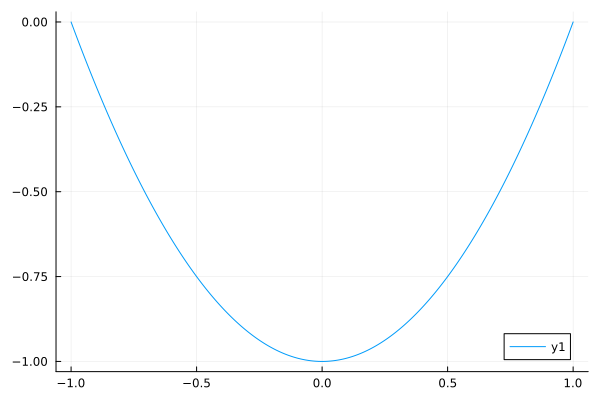
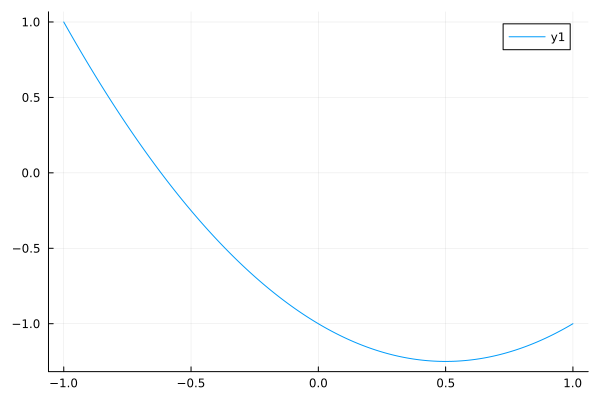
derive continuous Koopman theory formulation and test analytic integration method

diff --git a/polynomial_projections/notes.md b/polynomial_projections/notes.md
@@ -1,12 +1,10 @@
-For the following example, we will consider the one dimensional dynamic system defined by
+Consider the one dimensional dynamic system defined by
 
-$$\frac{dx}{dt} = x^2 - 1$$
+$$\frac{dx}{dt} = x^2 - x - 1$$
 
 The function is plotted below
 
-![System Dynamics](/Users/atagg/Documents/research/NeuralKoopmanTheory/examples/small_quadratic/system_dynamics.png)
-
-For $x < 1$ this system will converge to the stable equilibrium $x=-1$
+![System Dynamics](/Users/atagg/Documents/research/NeuralKoopmanTheory/polynomial_projections/figures/system_dynamics.png)
 
 The goal of this example will be to approximate a lifted space $\mathbf{z} = \boldsymbol{\phi}(x)$ where the dynamics are now linear instead of quadratic.  We need to find a Koopman operator $K$ such that $\mathbf{z}_{k+1} = K\mathbf{z}_k$.
 
@@ -20,21 +18,62 @@ The Koopman operator $K$ can be interpreted as a projection of $\boldsymbol{\phi
 
 $$K_{ij} = \frac{\lang \phi_i(F(x)), \phi_j(x) \rang}{\lang \phi_j(x), \phi_j(x)\rang}$$
 
-For this example, we will use Legendre polynomials for our lifting functions.  The projection coefficients are computed as follows
+We will use Legendre polynomials for our lifting functions.  The projection coefficients are computed as follows
 
 $$K_{ij} = \frac{2j+1}{2} \int_{-1}^1 P_i(F(x)) P_j(x) dx $$
 
 In our example, $F(x) = x + (x^2 - 1)\Delta t$
 
-for the first few entries in the Koopman Operator,
+Computing these projections for a $2 \times 2$ approximation of the Koopman operator,
 
-$$K_{00} = \frac{1}{2} \int_{-1}^1 dx = 1$$
-$$K_{01} = \frac{1}{2} \int_{-1}^1 x dx = 0$$
-$$K_{02} = \frac{1}{4} \int_{-1}^1 (3x^2 - 1) dx = 0$$
-$$K_{10} = \frac{3}{2} \int_{-1}^1 (x + (x^2 - 1)\Delta t) dx = -2 \Delta t$$
-$$K_{11} = \frac{3}{2} \int_{-1}^1 (x + (x^2 - 1)\Delta t)x dx = 1$$
-$$K_{12} = \frac{3}{4} \int_{-1}^1 (x + (x^2 - 1)\Delta t)(3x^2 - 1) dx = \frac{2}{5} \Delta t$$
+$$K_{2 \times 2} = \begin{bmatrix} 1 & 0 \\ -0.00666 & 1 \end{bmatrix}$$
 
+Simulating with this Koopman operator and comparing it to the true lifted trajectories
+
+![System Dynamics](/Users/atagg/Documents/research/NeuralKoopmanTheory/polynomial_projections/figures/lifted_trajectories_2x2.png)
+
+We can improve upon this by taking a $5 \times 5$ approximation of the Koopman operator 
+
+
+![System Dynamics](/Users/atagg/Documents/research/NeuralKoopmanTheory/polynomial_projections/figures/lifted_trajectories_5x5.png)
+
+
+If we go to a $15 \times 15$ Koopman operator, the simiulation is getting better.  We see that the low order polynomials are captured very well, while the high order states are still seeing some error 
+
+![System Dynamics](/Users/atagg/Documents/research/NeuralKoopmanTheory/polynomial_projections/figures/lifted_trajectories_15x15.png)
+
+
+This trend continues as we go to higher and higher order polynomials.  The lifted dynamics will never be exactly captured by a finite Koopman operator, and it seems that the error is always shifted to the highest order polynomials.  
+
+This makes sense because we are essentially trying to approximate $P_{15}(x + (x^2 - 1)\Delta t)$ , which is an order $30$ polynomial, with linear combinations of $P_{15}$ or below.  
+
+This the error can be quantified by the following metric
+
+$$E_i = \frac{||\sum_{j=0}^N K_{ij} \phi_j(x)||^2}{||\phi_i(F(x))||^2}$$
+
+This is the energy captured by the approximation divided by the total energy of the lifted dynamic equation.  This ratio of energies tells us how well the dynamics are captured by the Koopman operator 
+
+If the basis is orthonormal, then this ratio actually simplifies to 
+
+$$E_i = \frac{\sum_{j=0}^N K_{ij}^2}{||\phi_i(F(x))||^2}$$
+
+For the $5 \times 5$ case, the computed energy ratios are
+
+$$\begin{matrix} 
+E_1 = 1.0000002009737752 \\
+E_2 = 1.0000920287163837 \\
+E_3 = 1.0002708729695853 \\
+E_4 = 0.9991687089803921 \\
+E_5 = 0.9556402361847003 \\
+ \end{matrix}$$
+
+These are all very close to $1$, which means that nearly all of the energy is captured by the linear approximation, but we do see that the higher the degree of the lifting polynomial, the more energy is lost by the approximation.  
+
+This is evident when we plot the linear lifted dynamics $K\boldsymbol{\phi}(x)$ and compare them against the actual lifted dynamics $\boldsymbol{\phi}(F(x))$
+
+![System Dynamics](/Users/atagg/Documents/research/NeuralKoopmanTheory/polynomial_projections/figures/lifted_dynamic_equations_5x5.png)
+
+Note that for computing the energy ratios and plotting these curves, the time step $\Delta t$ was increased from $0.01$ to $0.2$.  This was necessary in order to expose the differences in these curves.  For a very small time step, $\boldsymbol{\phi}(F(x)) \approx \boldsymbol{\phi}(x)$.  In the future, I may look at using either a continuous formulation of the projection approach, or use a higher order integration scheme in order to remedy this.
 
 
 

diff --git a/continuous_formulation/notes.md b/continuous_formulation/notes.md
@@ -1,0 +1,66 @@
+The discrete formulation of Koopman operator theory states that for some nonlinear discrete dynamic system $x_{k+1} = F(x)$, there exists a lifted space $\boldsymbol{\phi}(x)$ such that
+
+$$\boldsymbol{\phi}(F(x)) = K \boldsymbol{\phi}(x)$$
+
+However, this caused a small issue when trying to use projections to find the Koopman operator $K$ because $K$ is dependant on the time step of the discrete system, and therefore so is the evaluation of how good the approximation is.  
+
+If the time step is small, then $\boldsymbol{\phi}(F(x)) \approx \boldsymbol{\phi}(x)$, and $K \approx I$.  Essentiually this suppresses the error of the Koopman approximation and it becomes harder to tell what is a good approximation and what is a bad one. 
+
+We can use large time steps, and then the error is not suppressed, but then we will lose accuracy in simualtion.
+
+Therefore, it may be desireable to use a continuous formulation formulation as follows
+
+$$\frac{d \boldsymbol{\phi}(x)}{dt} = \frac{d \boldsymbol{\phi}}{dx} \frac{dx}{dt} = K \boldsymbol{\phi}(x)$$
+
+Now to find the Koopman operator we take the following projections
+
+$$K_{ij} = \frac{\lang \frac{d \phi_i}{dx} \frac{dx}{dt}, \phi_j(x) \rang}{\lang \phi_j(x), \phi_j(x)\rang}$$
+
+With Legendre polynomials
+
+$$K_{ij} = \frac{2j+1}{2} \int_{-1}^1 \frac{dP_i}{dx} \frac{dx}{dt} P_j(x) dx $$
+
+Using the same example as before,
+
+$$\frac{dx}{dt} = x^2 - x - 1$$
+
+We take a $5 \times 5$ approximation of $K$, and get pretty good accuracy
+
+![System Dynamics](/Users/atagg/Documents/research/NeuralKoopmanTheory/continuous_formulation/figures/lifted_trajectories_5x5.png)
+
+The energy ratios for this approximation are
+
+
+$$\begin{matrix} 
+   E_1 = 1.0 \\
+   E_2 = 1.0000389493201884 \\
+   E_3 = 1.0002448996184692 \\
+   E_4 = 1.0008165425346534 \\
+   E_5 = 0.9518407776510868 \\
+ \end{matrix}$$
+
+Which tell us that the linear approximation is capturing $100\%$ of the energy of the actual lifted dynamics for the first $4$ states, and $95\%$ of the energy of the final state dynamics
+
+
+The plots of the actual lifted dynamics versus the linear lifted dynamics confirm this
+
+![System Dynamics](/Users/atagg/Documents/research/NeuralKoopmanTheory/continuous_formulation/figures/lifted_dynamic_equations_5x5.png)
+
+when we increase the lifted dimension to $10$, the energy ratios get even beter
+
+$$\begin{matrix} 
+   E_1 = 1.0 \\
+   E_2 = 1.0000003863531841 \\
+   E_3 = 1.0000024187044374 \\
+   E_4 = 1.0000080942480363 \\
+   E_5 = 1.0000205549642636 \\
+   E_6 = 1.0000439579329437 \\
+   E_7 = 1.0000833965575935 \\
+   E_8 = 1.0001450601963133 \\ 
+   E_9 = 1.000235989372411 \\
+   E_10 = 0.9753195291731591
+ \end{matrix}$$
+
+The higher the lifted dimension, the better we can approximate that last lifted state.  At $30$ dimensions we see an energy ratio of $0.996$ 
+
+
